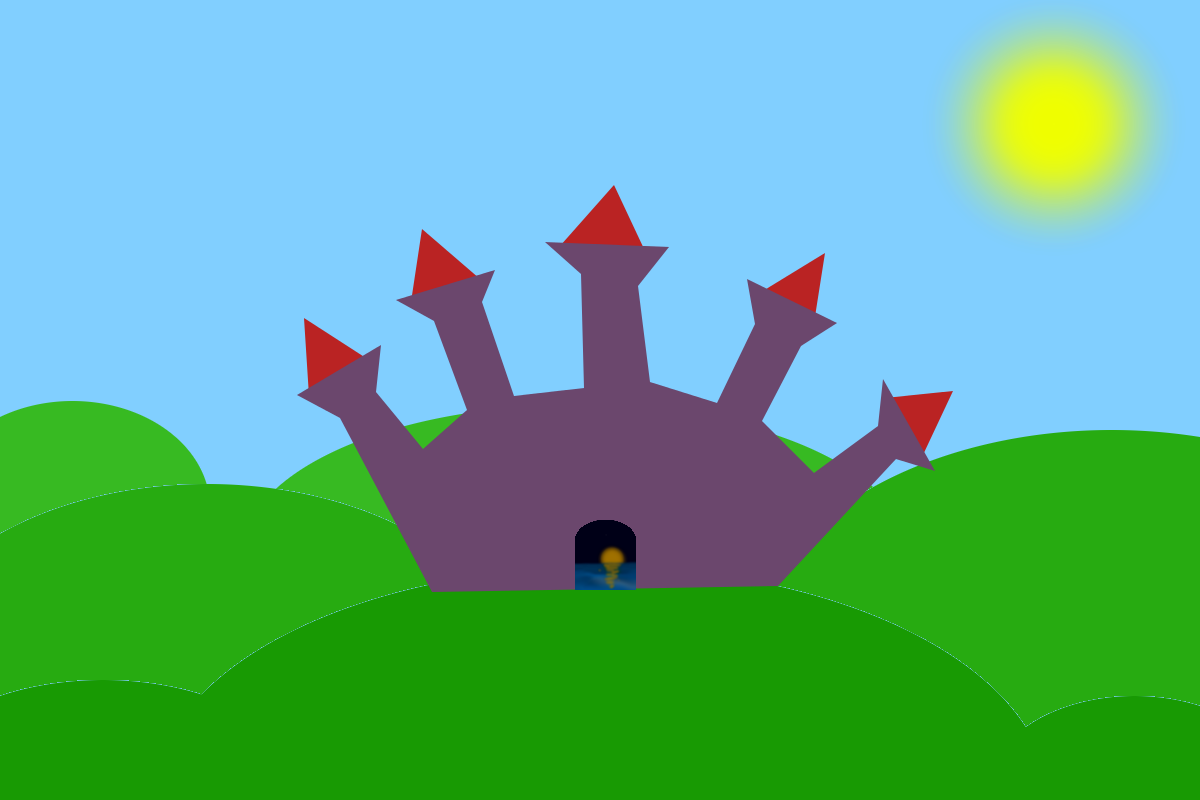
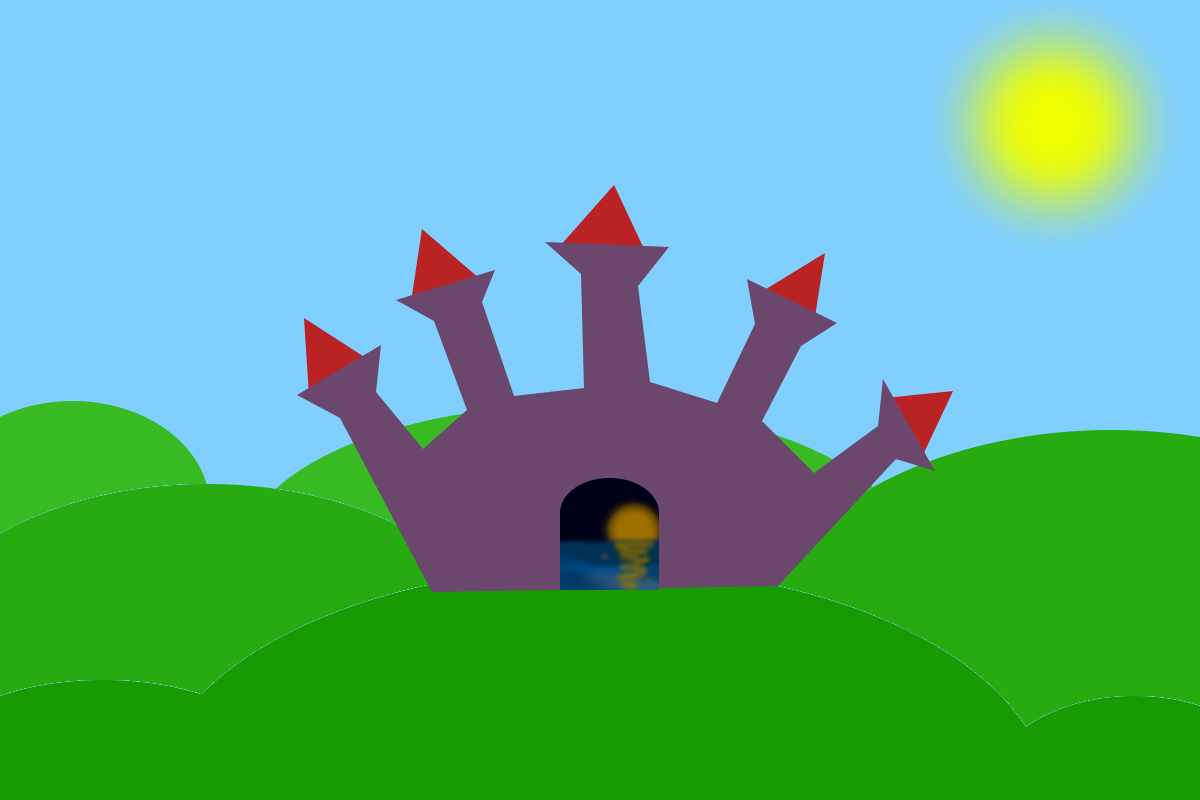
deuxieme cinematique

Changed region(s): [[0.4625, 0.5938, 0.555, 0.75]]

diff --git a/cinematiques.js b/cinematiques.js
@@ -55,14 +55,26 @@ function drawCinema(){
             ctx.drawImage(imgCin.magePsy2,W/3 + 120 - imgCin.magePsy.width / 2 + (W - W/3 - 120)*(nCine-490)/200,H - imgCin.magePsy.height);
         }
         if (nCine >= 690){
+            nCine = -1;
+            cinema = "intro2";
+        }
+        if (nCine == 410) ctx.fillRect(0,0,W,H);
+    }
+    else if (cinema == "intro2"){
+        ctx.drawImage(imgCin.fond5,0,0,W,H);
+        if (nCine < 400) ctx.drawImage(imgCin.vortex2,0,0,W,H);
+        if (nCine < 200) ctx.drawImage(imgCin.magePsy2,- imgCin.magePsy2.width / 2 + (W/2-100)*(nCine)/200,H - imgCin.magePsy2.height);
+        else if (nCine < 400) ctx.drawImage(imgCin.magePsy2,- imgCin.magePsy2.width / 2 + W/2-100,H - imgCin.magePsy2.height - (H-H/4*3)*(nCine-200)/200);
+        else if (nCine < 450) ctx.drawImage(imgCin.magePsy2,- imgCin.magePsy2.width / 2 + W/2-100,H - imgCin.magePsy2.height - H/4);
+        else if (nCine < 500) ctx.drawImage(imgCin.magePsy2,- imgCin.magePsy2.width / 2 + W/2-100 + (100)*(nCine-450)/50,H - imgCin.magePsy2.height - H/4);
+
+
+        if (nCine >= 550){
             if (jeuCharge == 1){
                 nCine = -2;
             }
         }
-        if (nCine == 410) ctx.fillRect(0,0,W,H);
     }
-
-
     nCine += 1;
     if (nCine != -1) animation();
     else preparation();

diff --git a/start.js b/start.js
@@ -45,7 +45,7 @@ imgFond.onload = function (){
     console.log(imgFond);
 };
 
-var imagesCinList = ["fond4","fond5","heroine","heroine2","palmier1","magePsy","magePsy2","esprit","note1","note2","note3"];
+var imagesCinList = ["fond4","fond5","heroine","heroine2","palmier1","magePsy","magePsy2","esprit","note1","note2","note3","vortex2"];
 var imagesList = ["bombe","bombe2","bombe3","F3","E","bipede","boule4","bouleNeige","boxe","champi","champi4","champique","fantome","inter","jumper","psychos","T","carnivore","T2","mageNoir","esprit"];
 var images = {};
 var imgCin = {};
